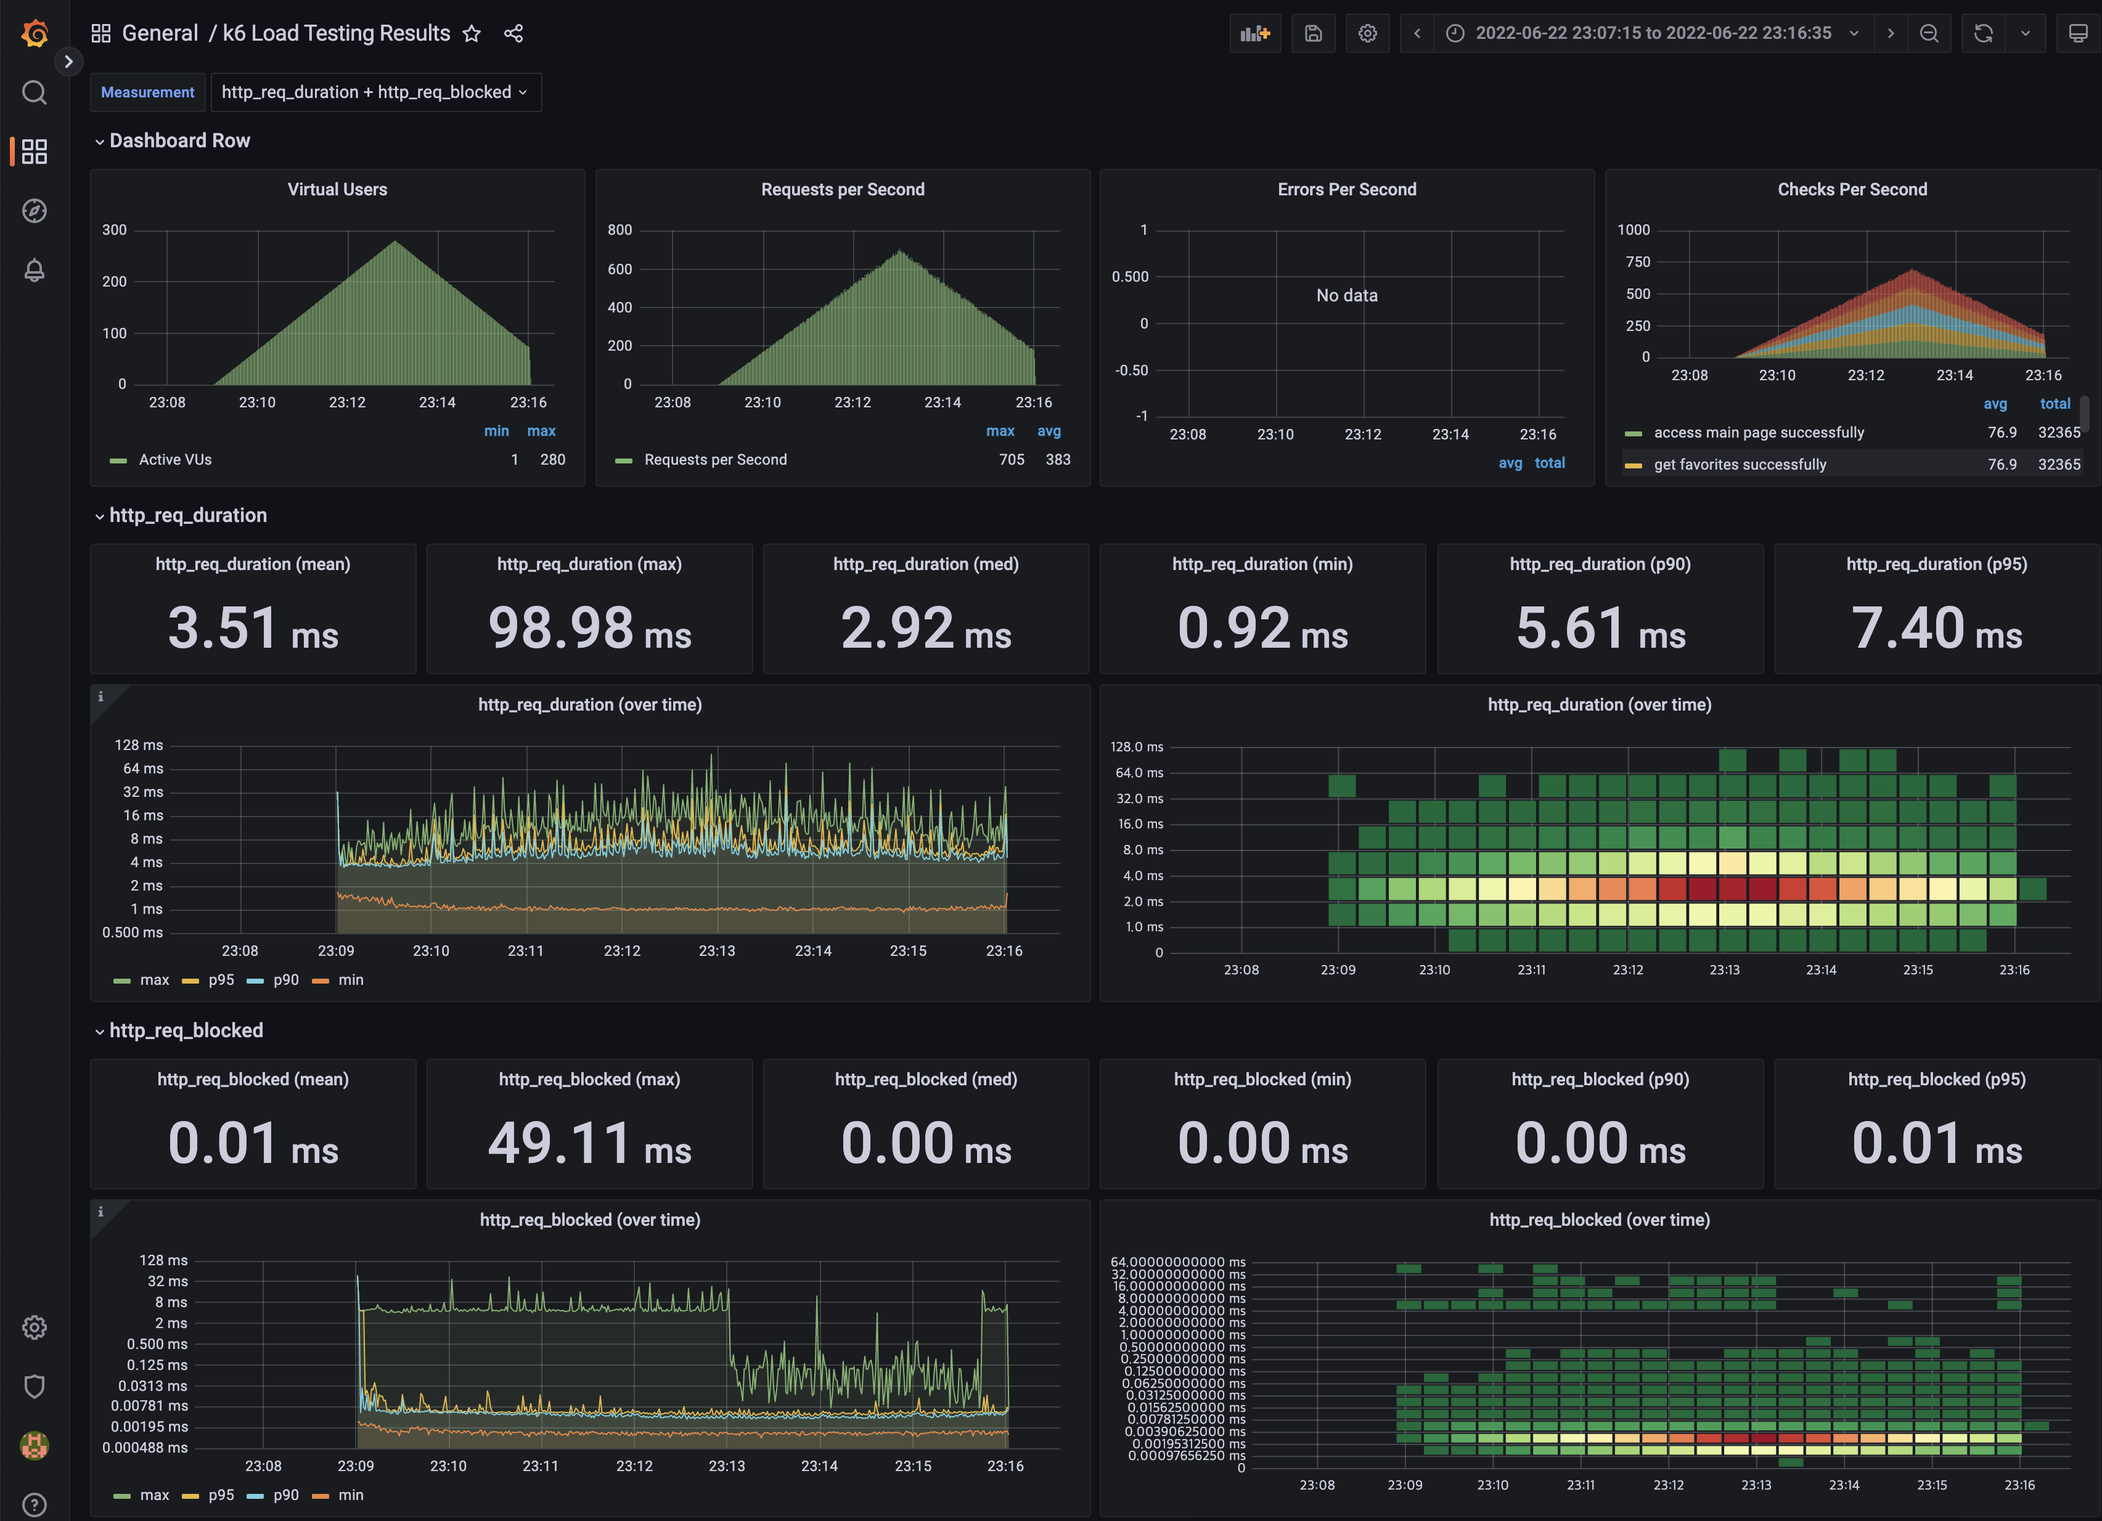
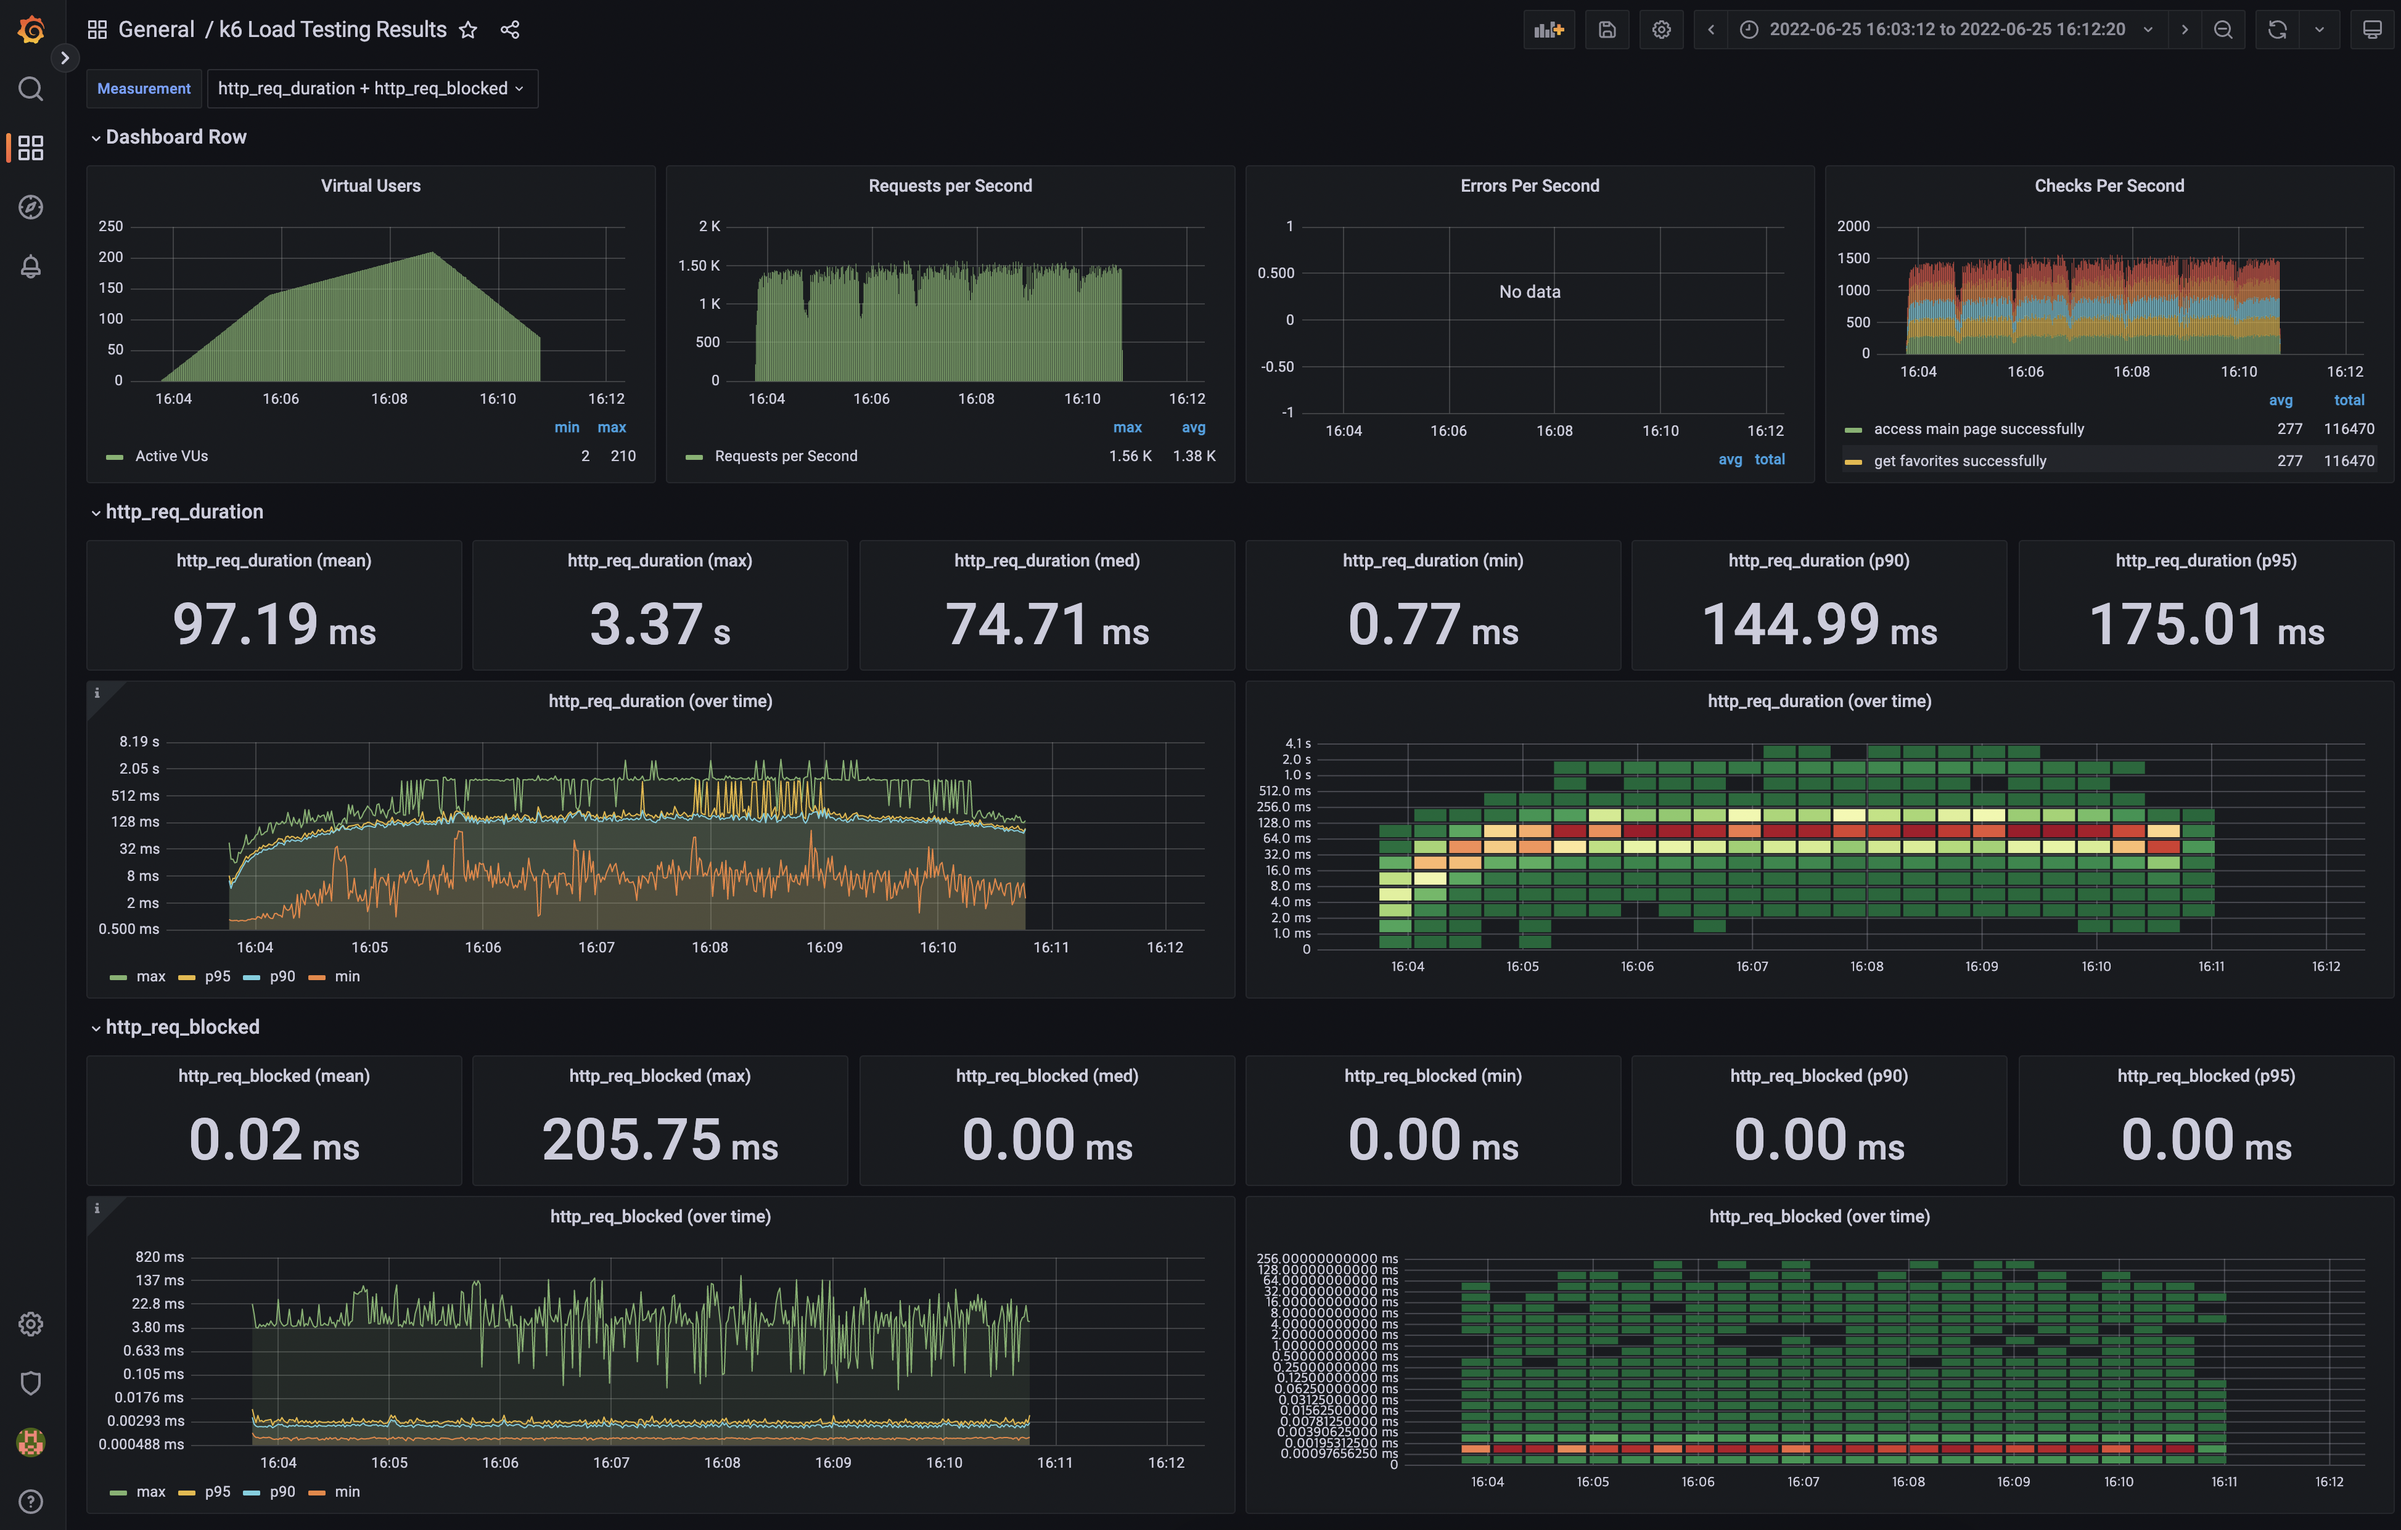
docs: 피드백 반영

diff --git a/docs/load/load.js b/docs/load/load.js
@@ -3,11 +3,10 @@ import {check} from 'k6';
 
 export let options = {
     stages: [
-        { duration: '5m', target: 20 },
+        { duration: '5m', target: 10 },
         { duration: '5m', target: 40 },
-        { duration: '5m', target: 70 },
-        { duration: '5m', target: 60 },
-        { duration: '5m', target: 30 },
+        { duration: '10m', target: 70 },
+        { duration: '5m', target: 40 },
         { duration: '5m', target: 10 },
     ],
 

diff --git a/docs/stress/stress.js b/docs/stress/stress.js
@@ -5,9 +5,7 @@ export let options = {
     stages: [
         { duration: '1m', target: 70 },
         { duration: '1m', target: 140 },
-        { duration: '1m', target: 210 },
-        { duration: '1m', target: 280 },
-        { duration: '1m', target: 210 },
+        { duration: '3m', target: 210 },
         { duration: '1m', target: 140 },
         { duration: '1m', target: 70 },
     ],

diff --git a/README.md b/README.md
@@ -122,12 +122,22 @@ https://piopoi.kro.kr
        - 100만회 / 86,400 = 11.6 (1일 평균 rps)
        - 11.57 x 10 = 115.7 (1일 최대 rps)
        
-     - `Latency : 100ms`
+     - `Latency : 100ms(P95) 500ms(P99)`
      
      - `VUser : 69.4`
        - 목표 rps : 115.7
        - (2 x 0.1) + 1 = 1.2
        - (115.7 * 1.2) / 2 = 69.4
+
+   - 테스트 대상 페이지/데이터 건수
+     - 페이지
+       - 메인
+       - 회원 정보 조회/수정
+       - 즐겨찾기 조회
+     - 현재 데이터 건수
+       - 노선 : 23개
+       - 구간 : 340개
+       - 역 : 616개
 #### 2. Smoke, Load, Stress 테스트 스크립트와 결과를 공유해주세요
   - Smoke
     - script : /docs/smoke/smoke.js
